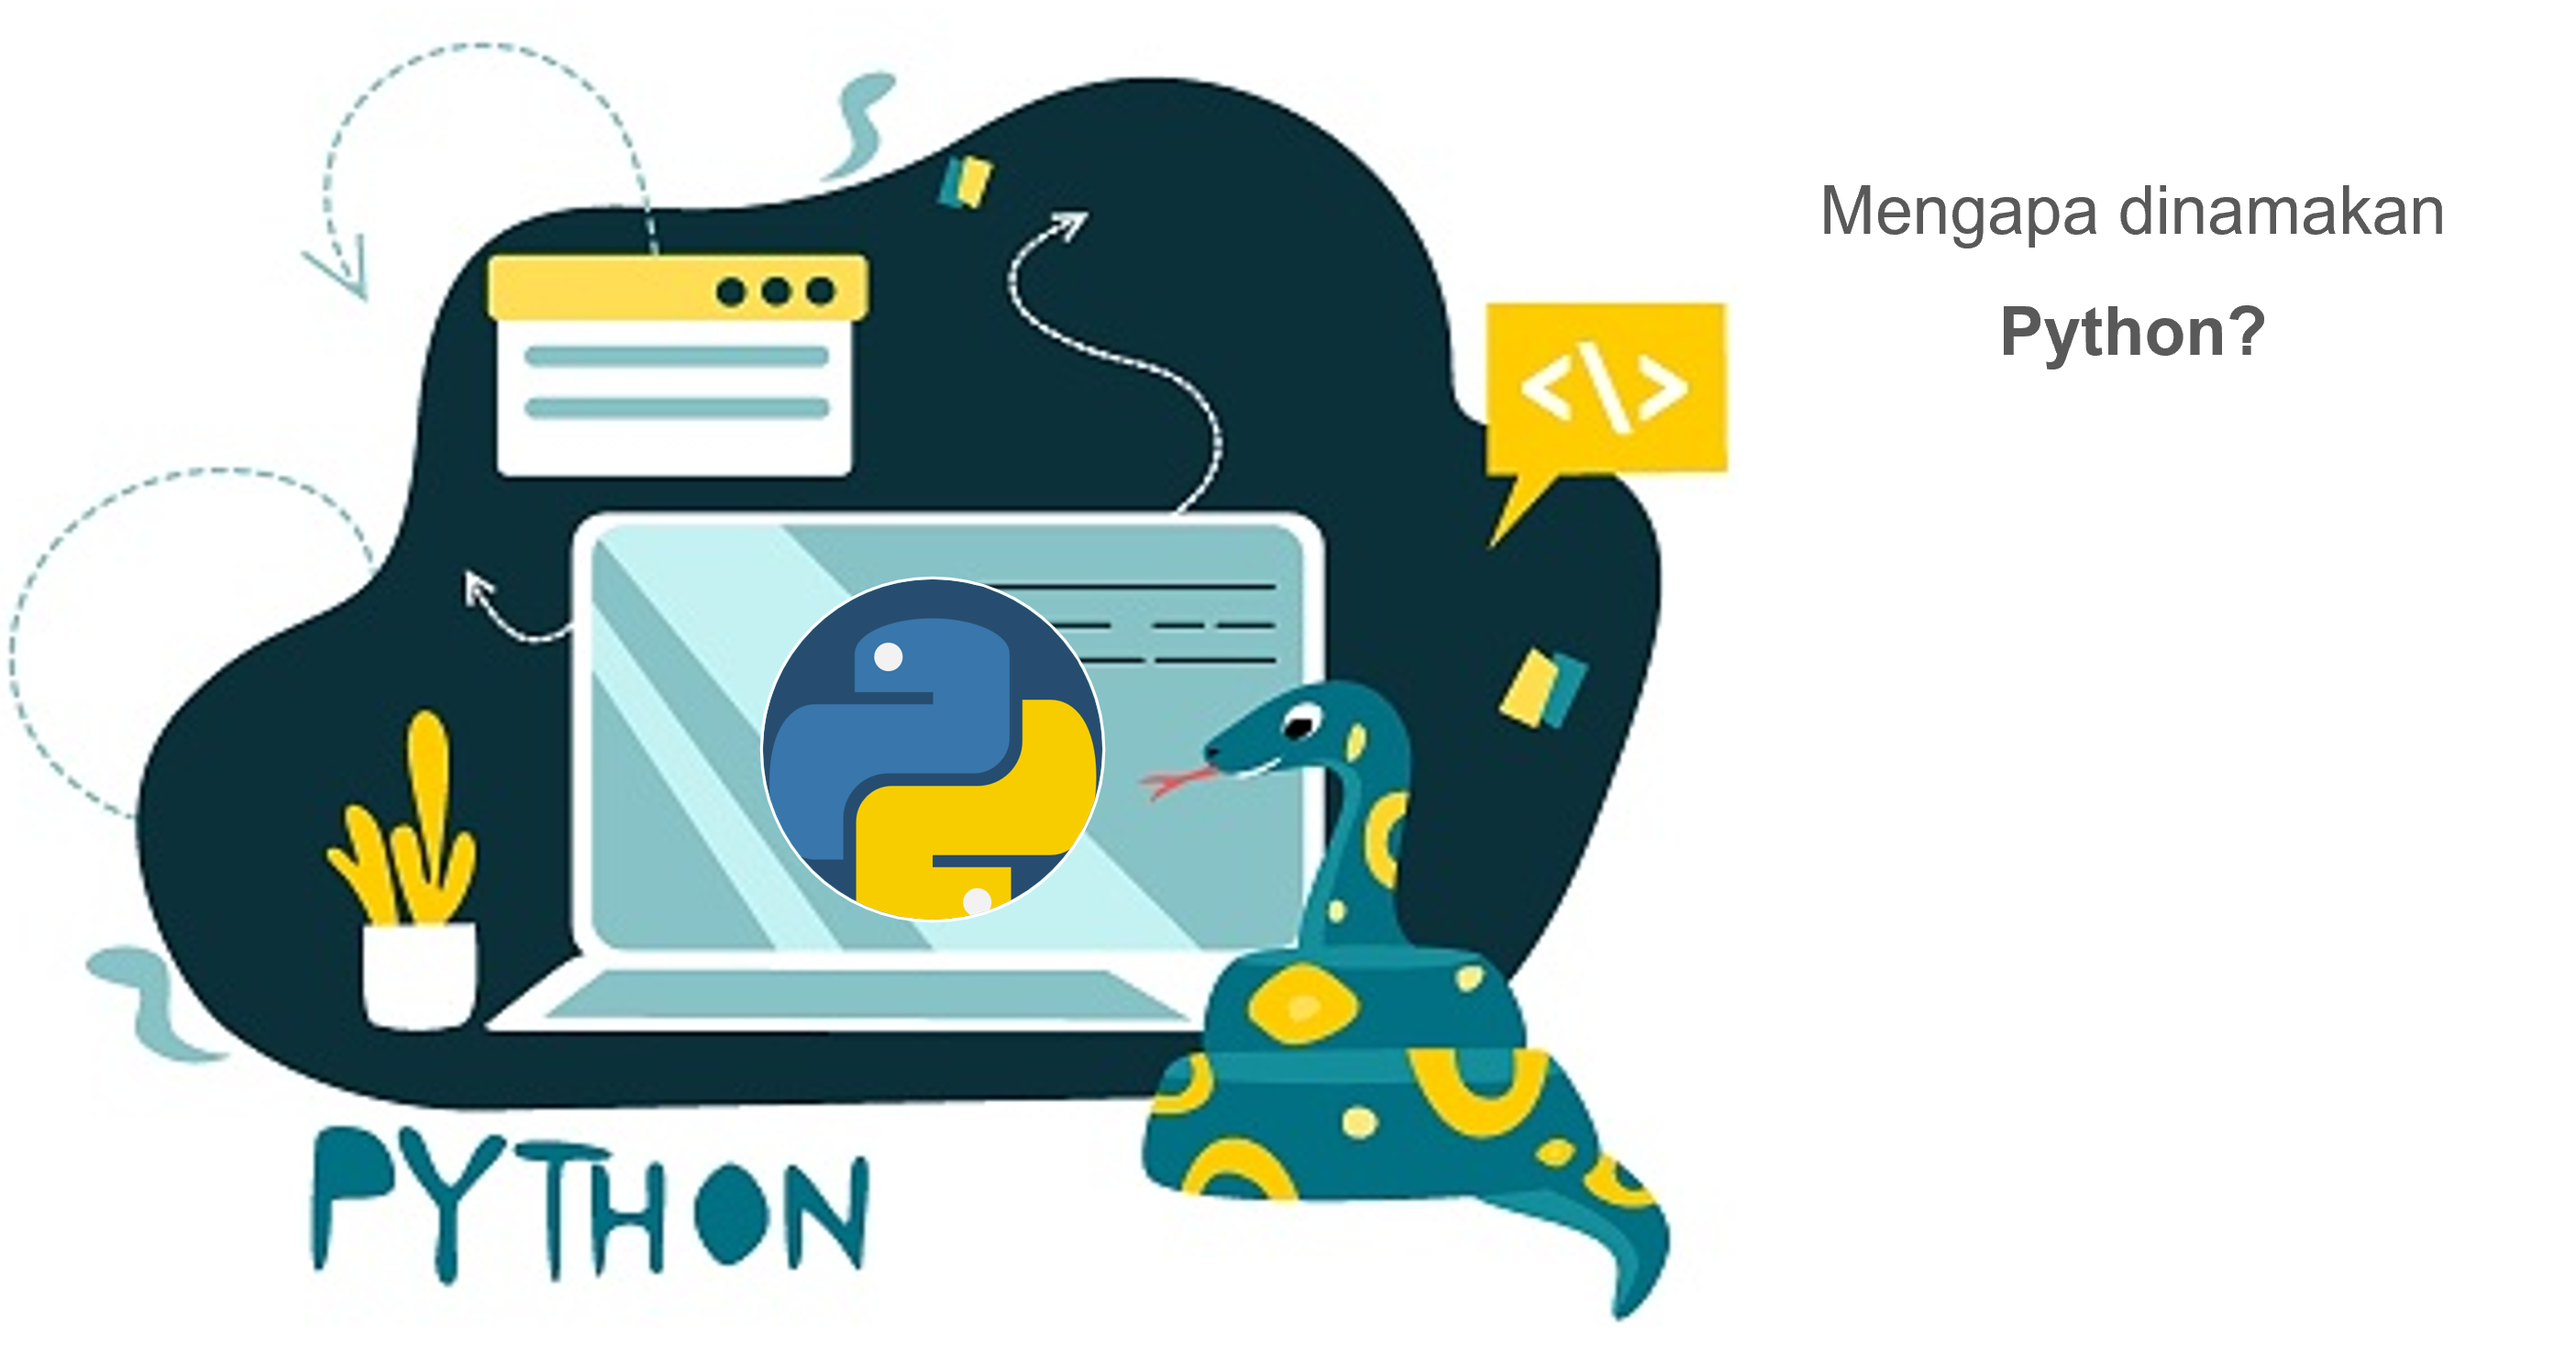
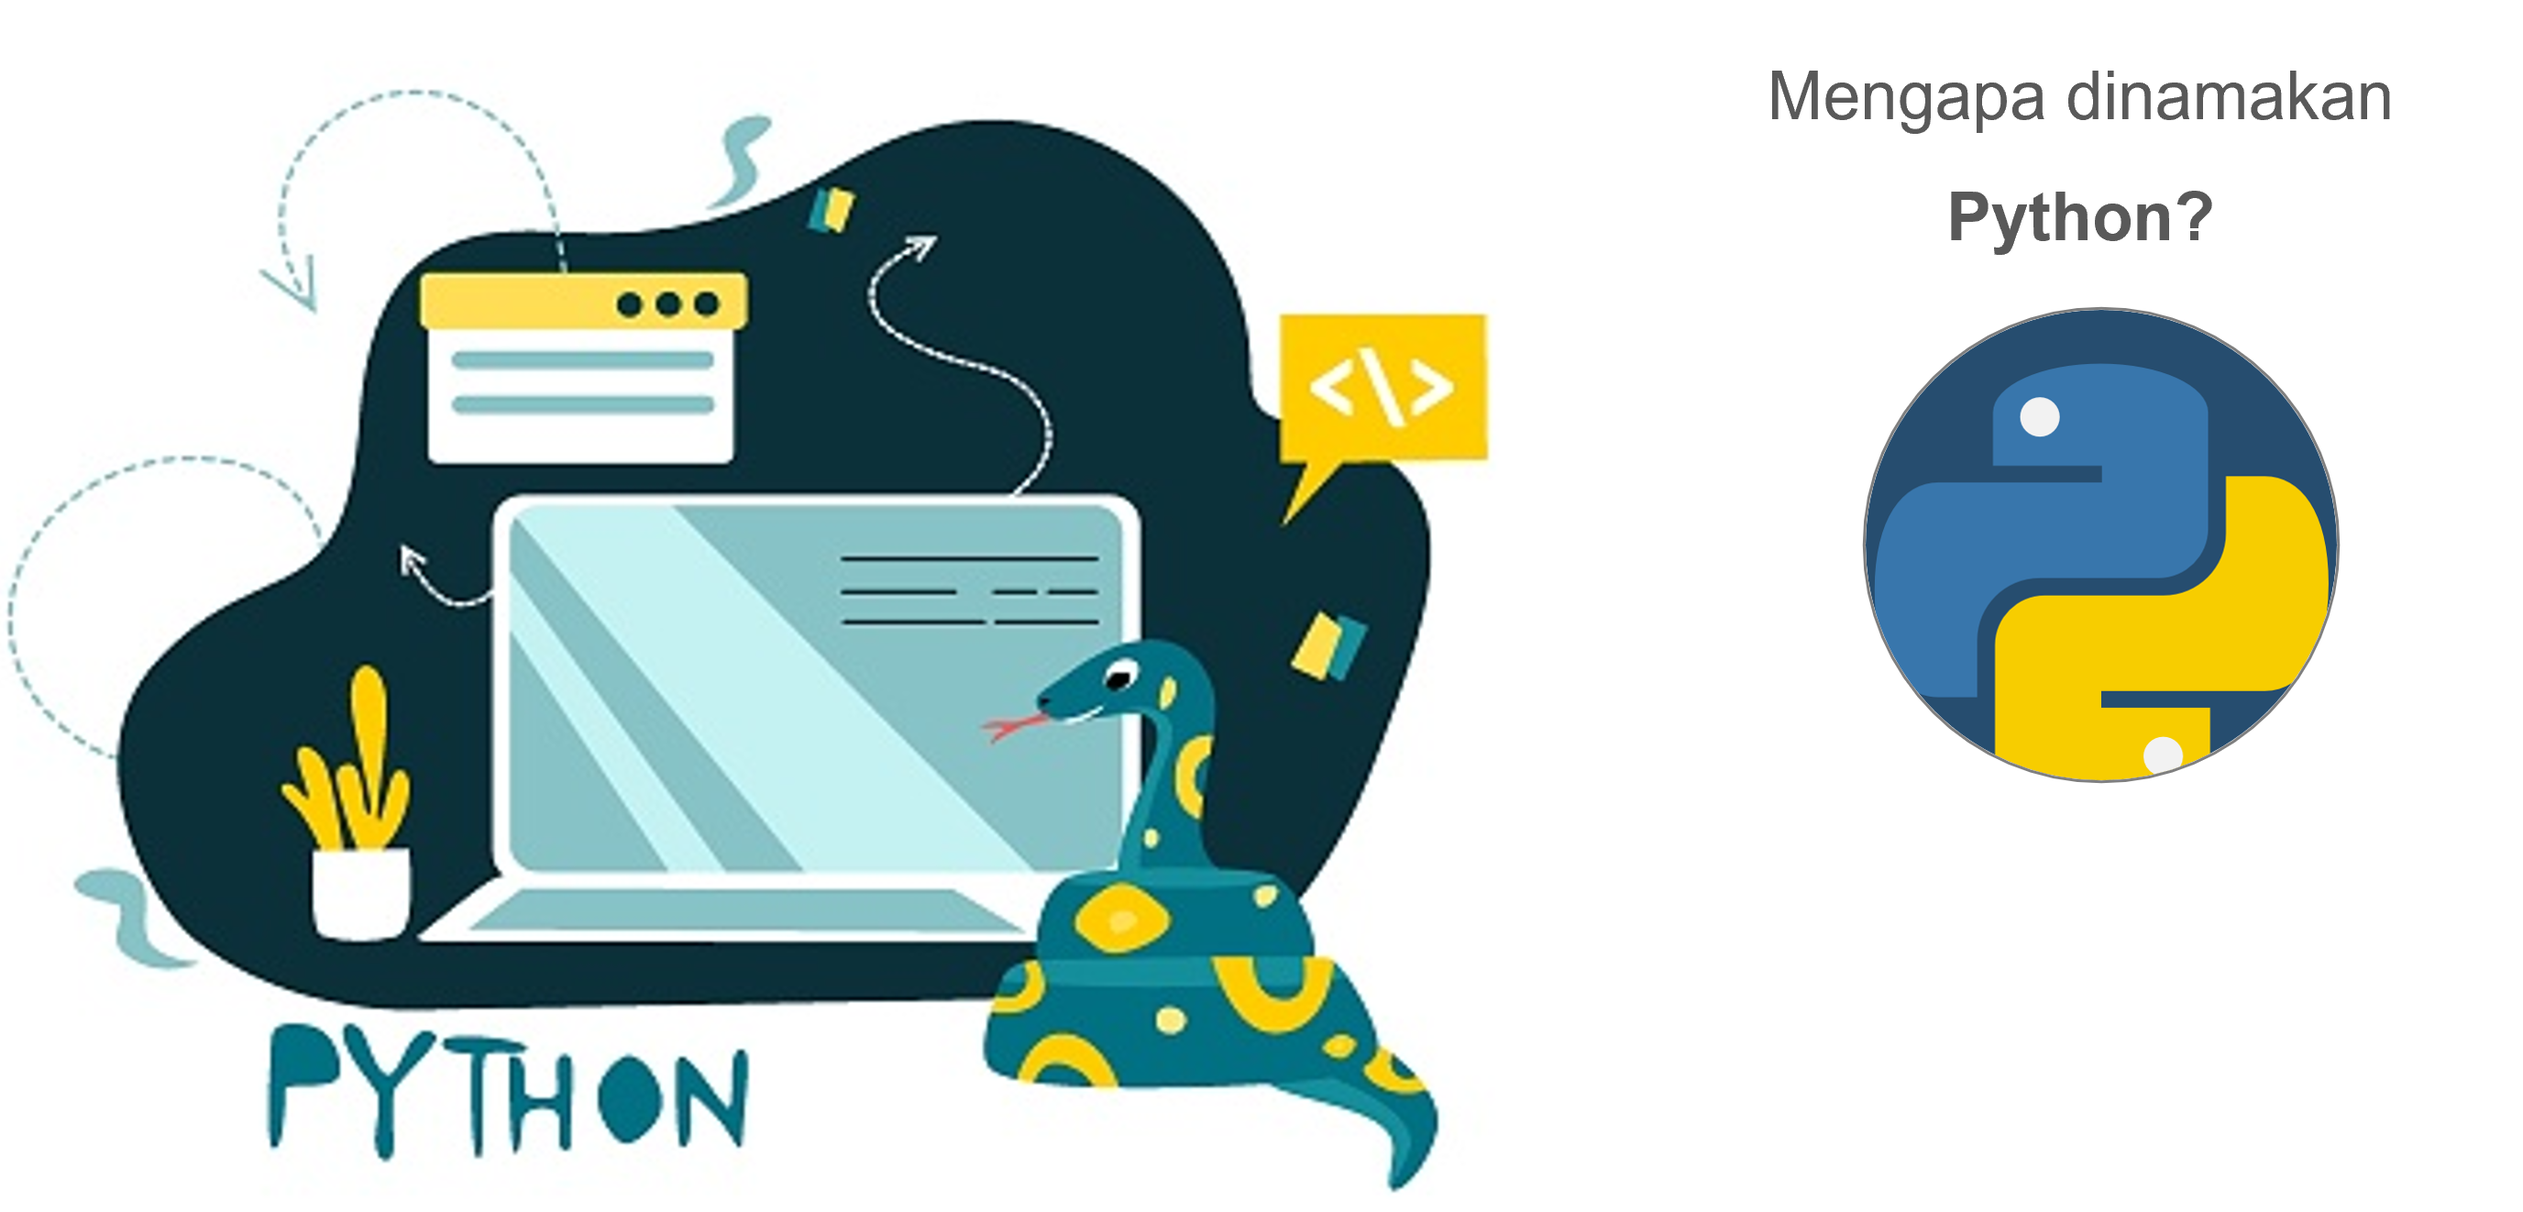
c

diff --git a/_book/pengenalan-python.html b/_book/pengenalan-python.html
@@ -197,7 +197,7 @@ code span.wa { color: #60a0b0; font-weight: bold; font-style: italic; } /* Warni
 <h2><span class="header-section-number">1.1</span> Sejarah<a href="pengenalan-python.html#sejarah" class="anchor-section" aria-label="Anchor link to header"></a></h2>
 <p><strong>Guido van Rossum</strong>, orang pertama kali yang mendesain Python di akhir tahun 1989, memulai projek ini saat masih di Centrum Wiskunde &amp; Informatice yang berpusat di Belanda. Awalnya, Guido bermaksud untuk memperbaiki sintak-sintak bermasalah pada Bahasa Pemrograman ABC yang pernah dikerjakan sebelumnya dan akhirnya terciptalah sebuah bahasa pemrograman yang lebih baik.</p>
 <center>
-<img src="https://github.com/sainzdata/Py_JNE/blob/main/images/python.png?raw=true" width="600" height="400">
+<img src="https://github.com/sainzdata/Py_JNE/blob/main/images/python.png?raw=true" width="500" height="280">
 </center>
 <p>Inspirasi nama Python diambil dari acara TV BBC yang berjudul “Monty Python’s Flying Circus”, karena Guido adalah penggemar berat acara tersebut. Selain itu, ia ingin memberikan nama yang pendek, unik, dan sedikit misterius untuk penemuannya.</p>
 <center>
